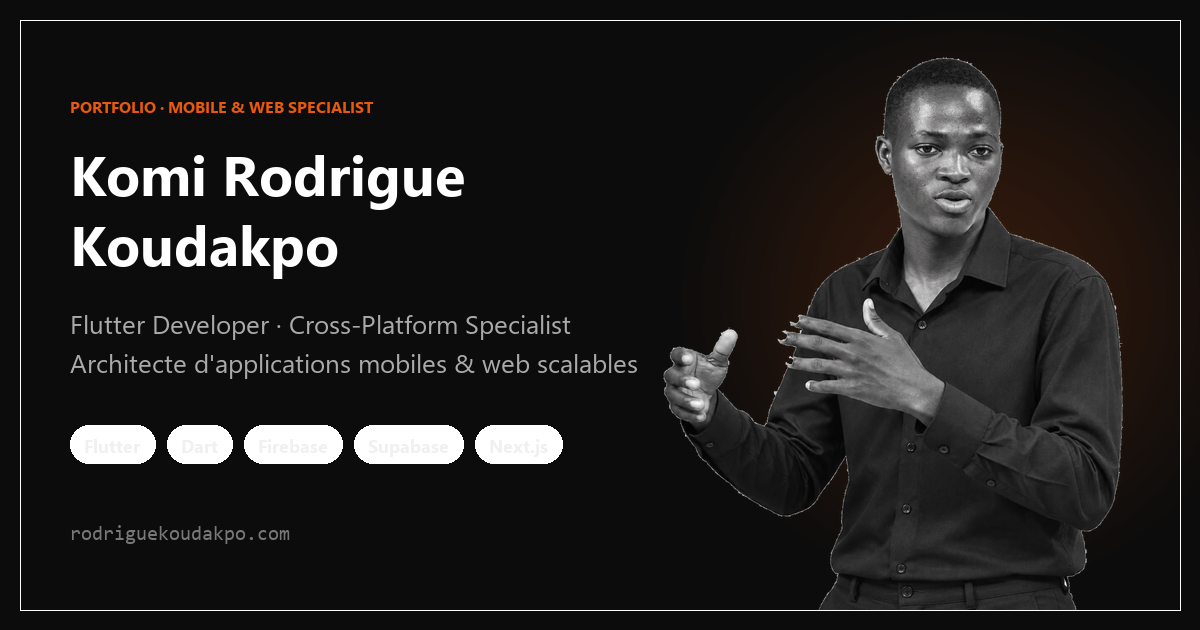
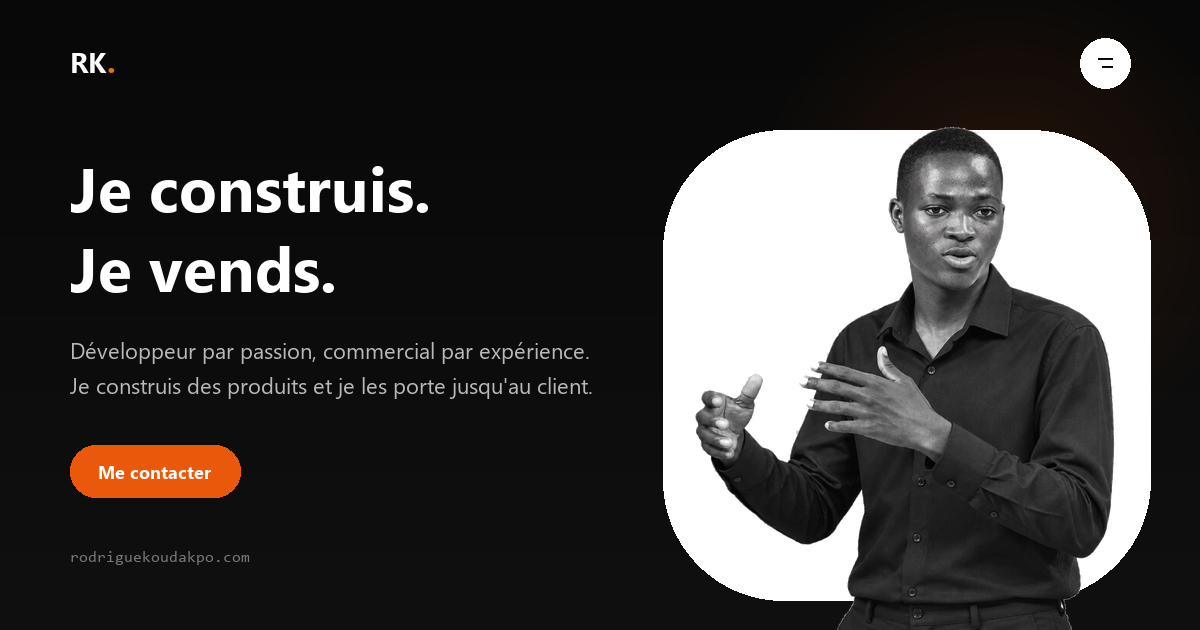
feat(seo): update social preview card and metadata with 'Je construis. Je vends.' branding

diff --git a/src/app/layout.tsx b/src/app/layout.tsx
@@ -3,36 +3,36 @@ import "./globals.css";
 
 export const metadata: Metadata = {
   metadataBase: new URL("https://rodriguekoudakpo.com"),
-  title: "Komi Rodrigue Koudakpo — Flutter Developer · Mobile Specialist",
+  title: "Komi Rodrigue Koudakpo — Je construis. Je vends.",
   description:
-    "Portfolio de Komi Rodrigue Koudakpo, Développeur mobile spécialisé Flutter (Android/iOS) & Clean Architecture.",
+    "Développeur par passion, commercial par expérience. Je construis des produits et je les porte jusqu'au client.",
   keywords:
-    "Flutter, Dart, Next.js, TypeScript, Mobile Development, Web Development, iOS, Android, Rodrigue Koudakpo",
+    "Flutter, Dart, Next.js, TypeScript, Mobile Development, Web Development, Commercial, Vente, Produits, Rodrigue Koudakpo",
   authors: [{ name: "Komi Rodrigue Koudakpo", url: "https://rodriguekoudakpo.com" }],
   creator: "Komi Rodrigue Koudakpo",
   openGraph: {
     type: "website",
     locale: "fr_FR",
     url: "https://rodriguekoudakpo.com",
-    title: "Komi Rodrigue Koudakpo — Flutter Developer · Mobile Specialist",
+    title: "Komi Rodrigue Koudakpo — Je construis. Je vends.",
     description:
-      "Portfolio de Komi Rodrigue Koudakpo, Développeur mobile spécialisé Flutter (Android/iOS) & Clean Architecture.",
+      "Développeur par passion, commercial par expérience. Je construis des produits et je les porte jusqu'au client.",
     siteName: "Komi Rodrigue Koudakpo — Portfolio",
     images: [
       {
         url: "/og-image.png",
         width: 1200,
         height: 630,
-        alt: "Komi Rodrigue Koudakpo — Flutter & Mobile Specialist",
+        alt: "Komi Rodrigue Koudakpo — Je construis. Je vends.",
         type: "image/png",
       },
     ],
   },
   twitter: {
     card: "summary_large_image",
-    title: "Komi Rodrigue Koudakpo — Flutter Developer · Mobile Specialist",
+    title: "Komi Rodrigue Koudakpo — Je construis. Je vends.",
     description:
-      "Portfolio de Komi Rodrigue Koudakpo, Développeur mobile spécialisé Flutter (Android/iOS) & Clean Architecture.",
+      "Développeur par passion, commercial par expérience. Je construis des produits et je les porte jusqu'au client.",
     images: ["/og-image.png"],
   },
   icons: {

diff --git a/src/app/[locale]/layout.tsx b/src/app/[locale]/layout.tsx
@@ -43,7 +43,7 @@ export async function generateMetadata({
           url: "/og-image.png",
           width: 1200,
           height: 630,
-          alt: "Komi Rodrigue Koudakpo — Flutter & Mobile Specialist",
+          alt: t('title'),
           type: "image/png",
         },
       ],
